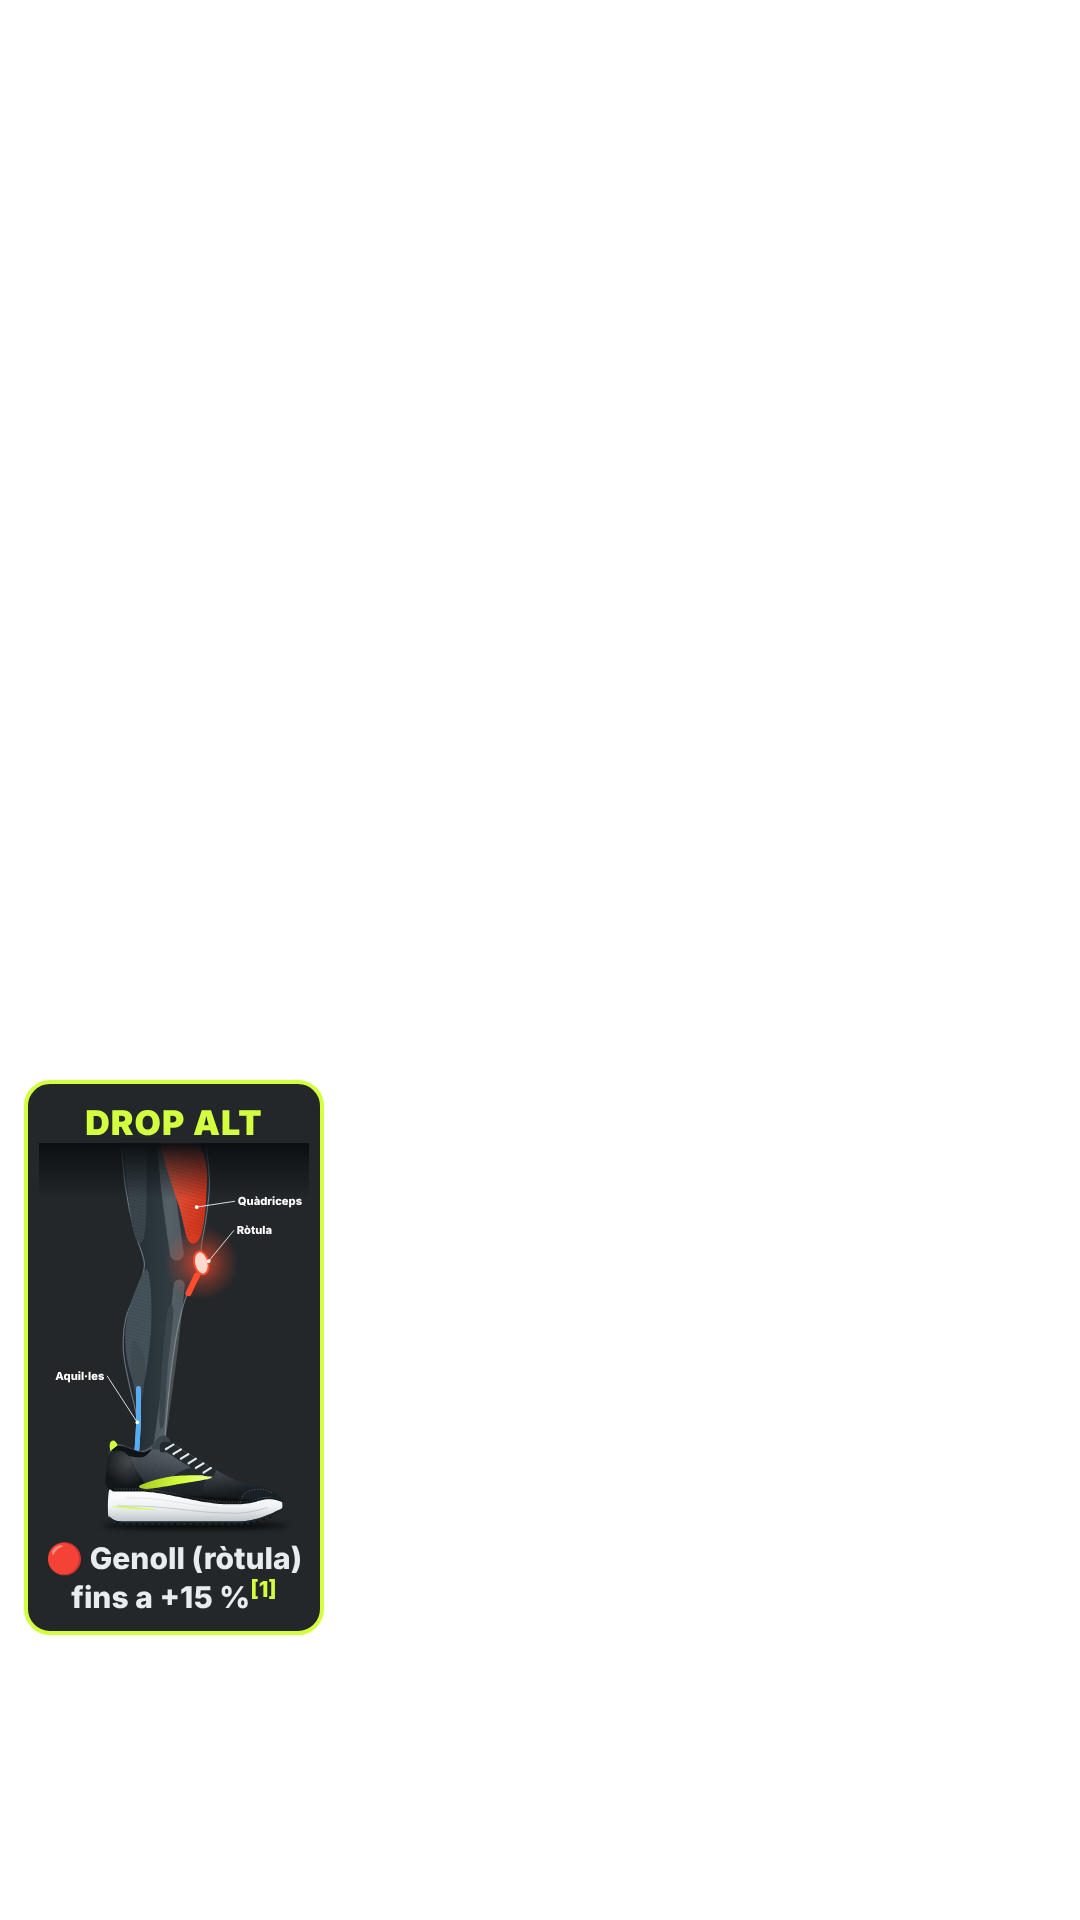
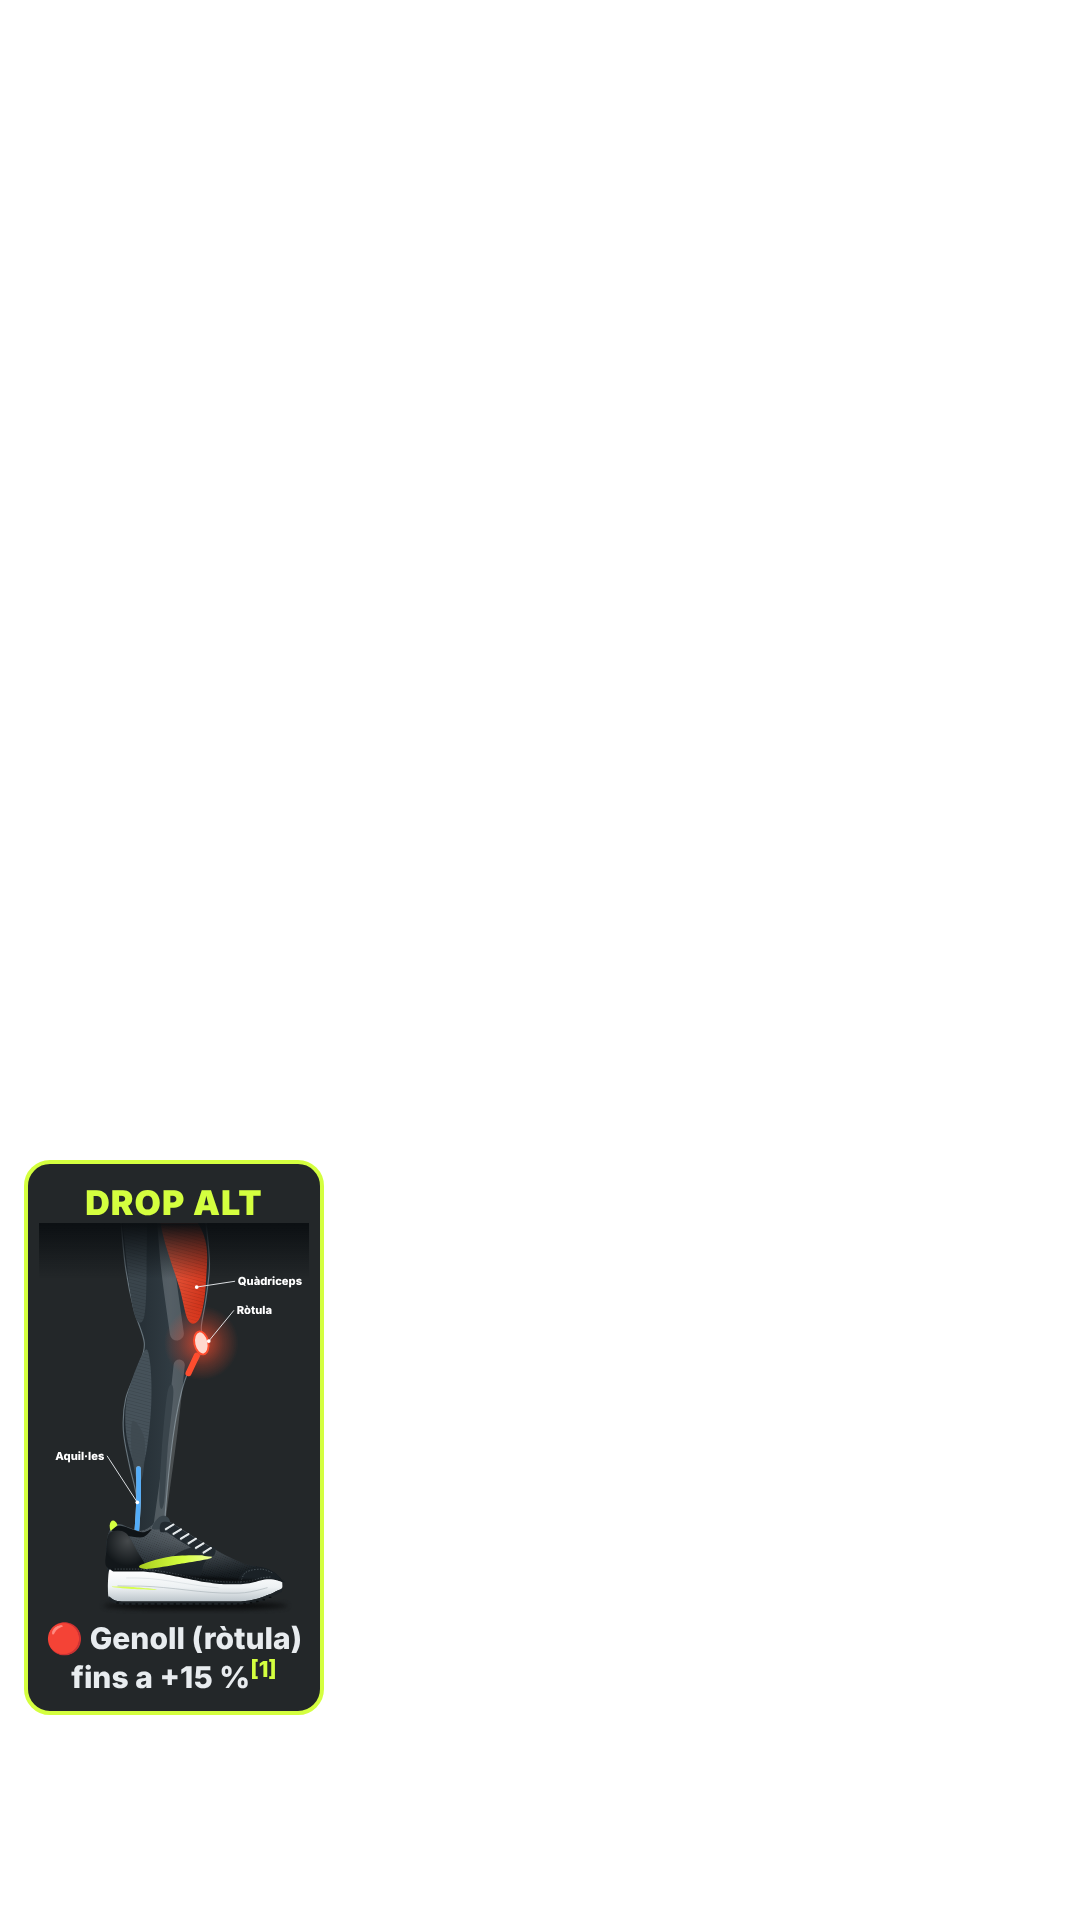
Targetes drop alt/baix 80 px més avall
Claude-Session: https://claude.ai/code/session_0129rqGdsRmN9Z9aLzGCda8A

Changed region(s): [[0.0, 0.5625, 0.3056, 0.9062]]

diff --git a/media/publicacions/reel_drop/gen_v7.py b/media/publicacions/reel_drop/gen_v7.py
@@ -14,7 +14,7 @@ TITLE = 'Molèsties al tendó d\'Aquil·les <span style="color:#D4FF3F">o al gen
 def title(top, fs, h):
     return f'''<div style="width:1080px;height:1920px;position:relative">{topband(h)}
 <div style="position:absolute;top:{top}px;left:60px;right:60px;text-align:center;font-weight:900;font-size:{fs}px;line-height:1;letter-spacing:-2.5px;text-transform:uppercase;color:#fff">{TITLE}</div></div>'''
-def cards(show_baix, top=1080, show_alt=True, cw=300, lw=270):
+def cards(show_baix, top=1160, show_alt=True, cw=300, lw=270):
     """Targetes grans als costats (com a la v2), apareixen quan les anomena."""
     def card(side, t, txt, leg, vis):
         x = "left:24px" if side == "L" else "right:24px"
